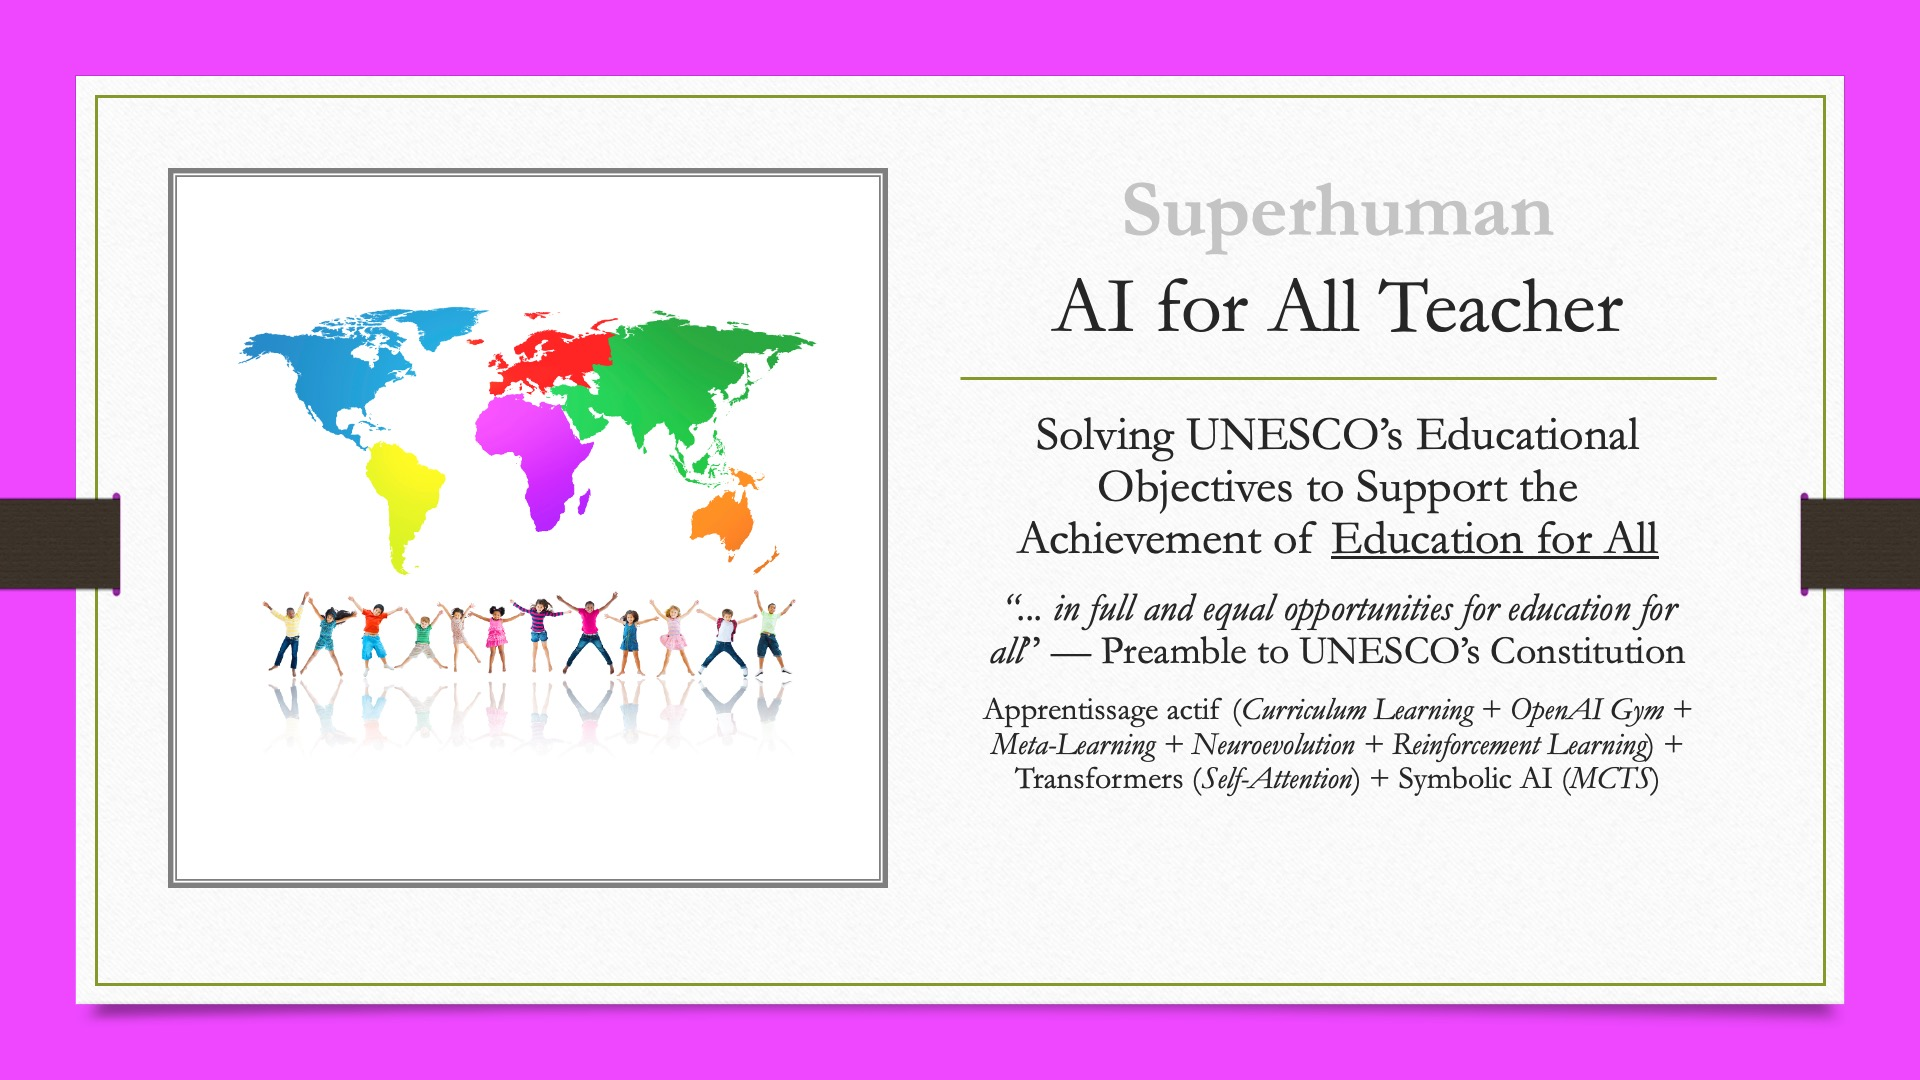
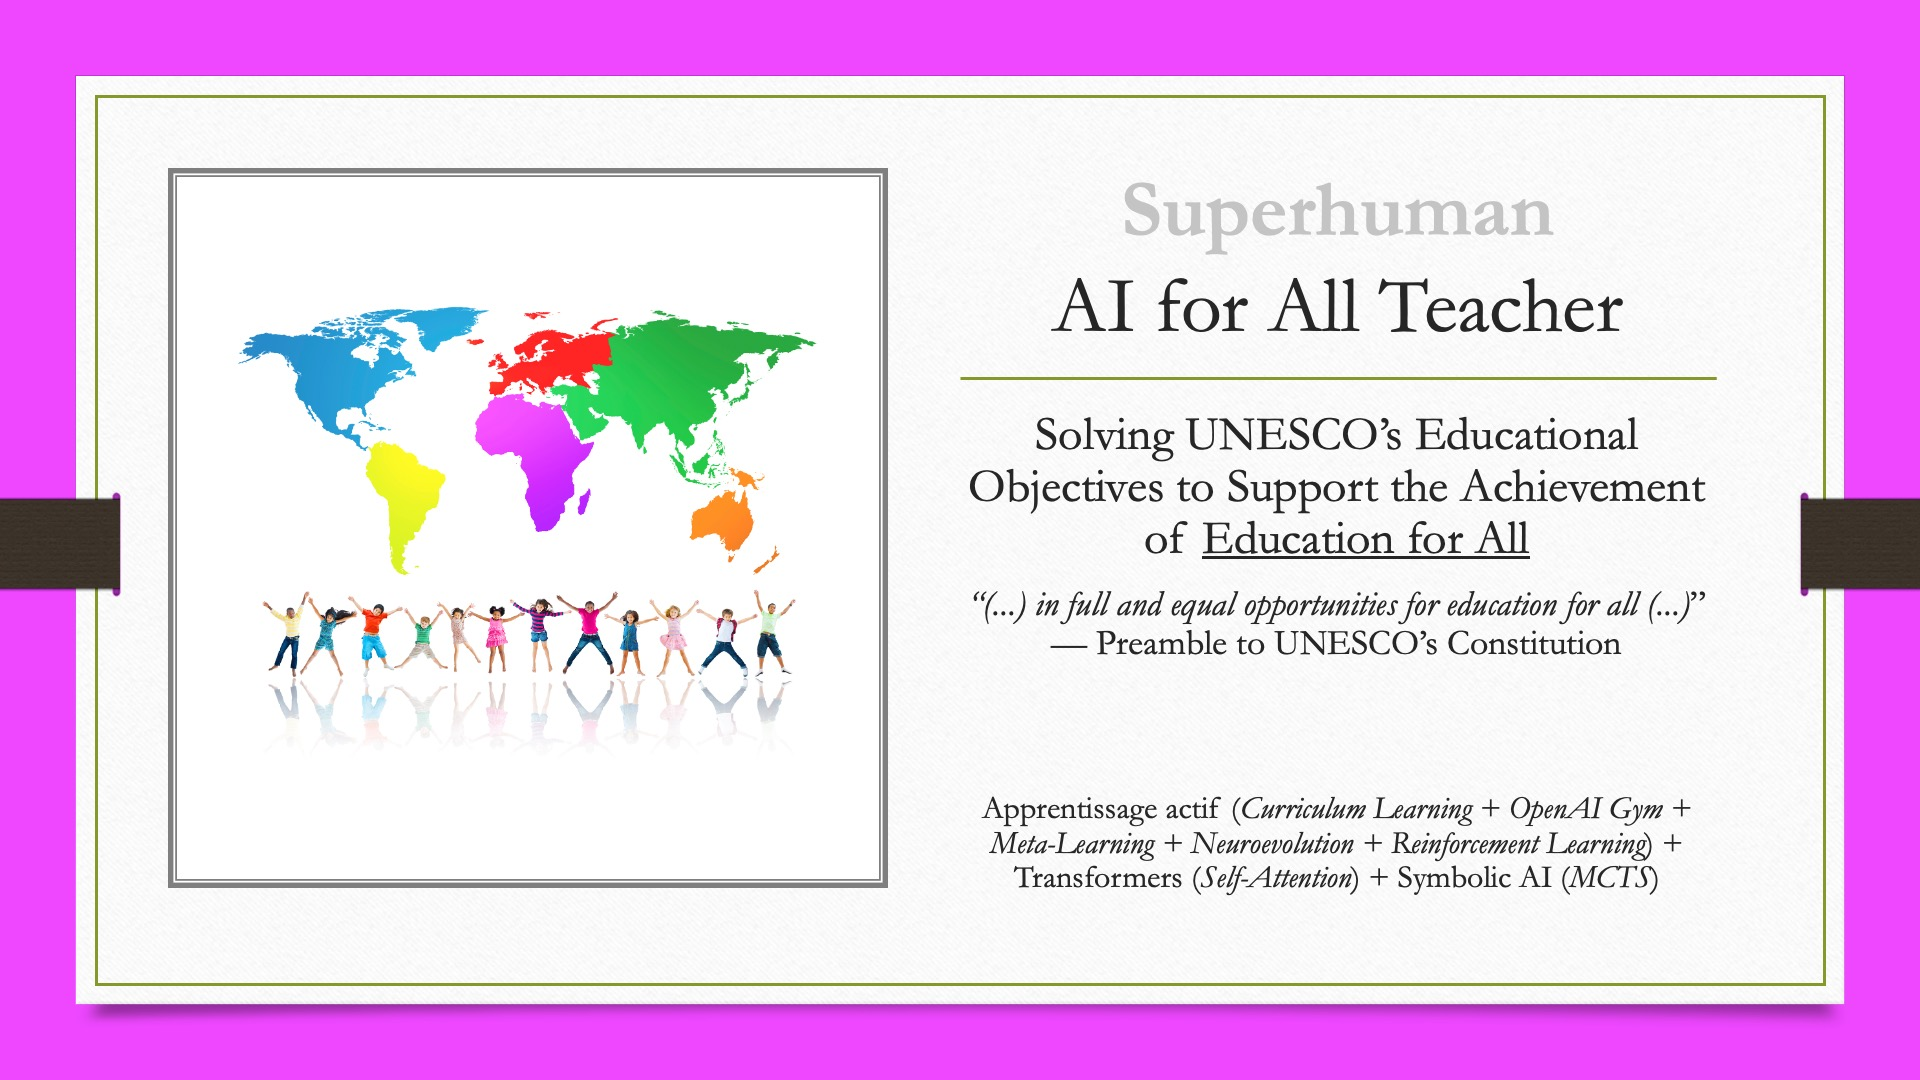
Site updated: 2020-02-09 12:23:15

Changed region(s): [[0.5, 0.6417, 0.875, 0.825], [0.5, 0.3972, 0.875, 0.5194], [0.5, 0.55, 0.875, 0.6111]]

diff --git a/2018/06/27/index/index.html b/2018/06/27/index/index.html
@@ -31,7 +31,7 @@
 <meta property="og:image" content="https://intelligencefoundation.github.io/2018/06/27/images/heritagev0.jpg">
 <meta property="og:image" content="https://intelligencefoundation.github.io/2018/06/27/images/fondationintelligencelogo120.jpg">
 <meta property="article:published_time" content="2018-06-27T22:42:49.000Z">
-<meta property="article:modified_time" content="2020-02-09T17:09:30.000Z">
+<meta property="article:modified_time" content="2020-02-09T17:22:51.000Z">
 <meta property="article:author" content="Intelligence Foundation Charity">
 <meta name="twitter:card" content="summary">
 <meta name="twitter:image" content="https://intelligencefoundation.github.io/2018/06/27/images/fondationintelligencev5.jpg">
@@ -136,7 +136,7 @@
         <span class="column is-narrow">
             
             
-            6 minutes read (About 902 words)
+            6 minutes read (About 932 words)
         </span>
         
     </div>
@@ -161,7 +161,11 @@
 </blockquote>
 <hr>
 <h3 id="Superhuman-AI-for-All-Teacher"><a href="#Superhuman-AI-for-All-Teacher" class="headerlink" title="Superhuman AI for All Teacher"></a><strong>Superhuman AI for All Teacher</strong></h3><p><a href="http://intelligence.tv" target="_blank" rel="noopener"><img src="../images/SuperhumanAI4AllTeacherv0.jpg" alt="Superhuman AI for All Teacher | Solving UNESCO’s Educational Objectives to Support the Achievement of Education for All" title="Superhuman AI for All Teacher | Solving UNESCO’s Educational Objectives to Support the Achievement of Education for All"></a></p>
-<p><strong>Technology: <em>Active Learning (Curriculum Learning + Neuroevolution + Meta-Learning) + Transformers (self-attention) + Symbolic AI (MCTS)</em></strong></p>
+<p><strong>Solving UNESCO’s Educational Objectives to Support the Achievement of Education for All.</strong></p>
+<p><strong>Technology: <em>Apprentissage actif (Curriculum Learning + OpenAI Gym + Meta-Learning + Neuroevolution + Reinforcement Learning) + Transformers (Self-Attention) + Symbolic AI (MCTS)</em></strong></p>
+<blockquote>
+<p><em>«“(…) in full and equal opportunities for education for all (…)».</em> - Alan Kay</p>
+</blockquote>
 <p>This humanitarian AI project will be developed <em>by the people, for the people</em>. The Intelligence Foundation is preparing to offer academic training & conferences, prizes & recognitions and open research & publications.</p>
 <hr>
 <h3 id="Enhanced-OpenAI-Gym-with-a-Community-Curated-Leaderboard"><a href="#Enhanced-OpenAI-Gym-with-a-Community-Curated-Leaderboard" class="headerlink" title="Enhanced OpenAI Gym with a Community Curated Leaderboard"></a><strong>Enhanced OpenAI Gym with a Community Curated Leaderboard</strong></h3><p>This humanitarian AI project will be developed <em>by the people, for the people</em>.</p>

diff --git a/index.html b/index.html
@@ -123,7 +123,7 @@
         <span class="column is-narrow">
             
             
-            6 minutes read (About 902 words)
+            6 minutes read (About 932 words)
         </span>
         
     </div>
@@ -148,7 +148,11 @@
 </blockquote>
 <hr>
 <h3 id="Superhuman-AI-for-All-Teacher"><a href="#Superhuman-AI-for-All-Teacher" class="headerlink" title="Superhuman AI for All Teacher"></a><strong>Superhuman AI for All Teacher</strong></h3><p><a href="http://intelligence.tv" target="_blank" rel="noopener"><img src="../images/SuperhumanAI4AllTeacherv0.jpg" alt="Superhuman AI for All Teacher | Solving UNESCO’s Educational Objectives to Support the Achievement of Education for All" title="Superhuman AI for All Teacher | Solving UNESCO’s Educational Objectives to Support the Achievement of Education for All"></a></p>
-<p><strong>Technology: <em>Active Learning (Curriculum Learning + Neuroevolution + Meta-Learning) + Transformers (self-attention) + Symbolic AI (MCTS)</em></strong></p>
+<p><strong>Solving UNESCO’s Educational Objectives to Support the Achievement of Education for All.</strong></p>
+<p><strong>Technology: <em>Apprentissage actif (Curriculum Learning + OpenAI Gym + Meta-Learning + Neuroevolution + Reinforcement Learning) + Transformers (Self-Attention) + Symbolic AI (MCTS)</em></strong></p>
+<blockquote>
+<p><em>«“(…) in full and equal opportunities for education for all (…)».</em> - Alan Kay</p>
+</blockquote>
 <p>This humanitarian AI project will be developed <em>by the people, for the people</em>. The Intelligence Foundation is preparing to offer academic training & conferences, prizes & recognitions and open research & publications.</p>
 <hr>
 <h3 id="Enhanced-OpenAI-Gym-with-a-Community-Curated-Leaderboard"><a href="#Enhanced-OpenAI-Gym-with-a-Community-Curated-Leaderboard" class="headerlink" title="Enhanced OpenAI Gym with a Community Curated Leaderboard"></a><strong>Enhanced OpenAI Gym with a Community Curated Leaderboard</strong></h3><p>This humanitarian AI project will be developed <em>by the people, for the people</em>.</p>
